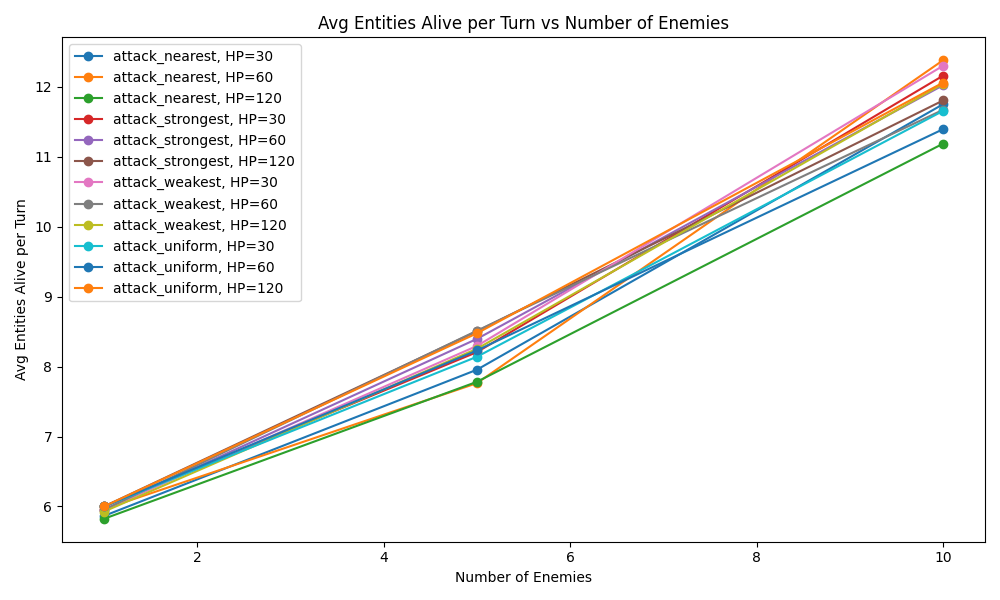
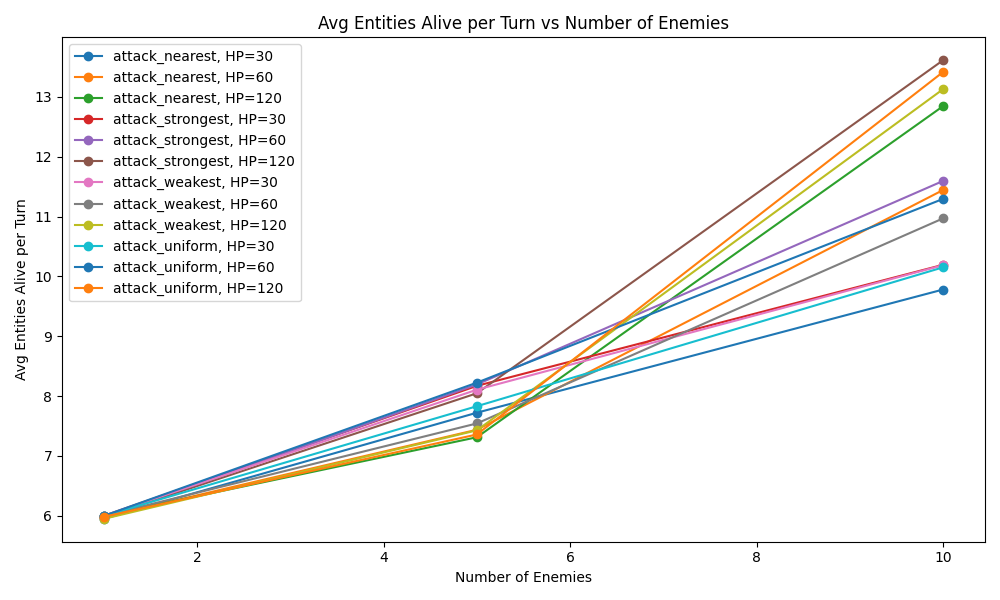
fixed enemy health

diff --git a/model.py b/model.py
@@ -221,14 +221,14 @@ def experiment_varying_enemies_and_health(
                 })
     # Plotting
     for metric in [
-    # "Total Damage Dealt by Players",
-    # "Total Damage Dealt by Enemies",
-    "Rounds Taken"#,
-    # "Avg Attacks per Turn",
-    # "Avg Entities Alive per Turn",
-    # "Players Survived",
-    # "Enemies Survived",
-    # "Player Win %"
+    "Total Damage Dealt by Players",
+    "Total Damage Dealt by Enemies",
+    "Rounds Taken",
+    "Avg Attacks per Turn",
+    "Avg Entities Alive per Turn",
+    "Players Survived",
+    "Enemies Survived",
+    "Player Win %"
     ]:
         plt.figure(figsize=(10, 6))
         for strategy in enemy_strategies:
@@ -242,22 +242,35 @@ def experiment_varying_enemies_and_health(
         plt.legend()
         plt.tight_layout()
         plt.savefig(f"{metric.replace(' ', '_')}_vs_num_enemies.png")
-        plt.close()
         # plt.show()
+        plt.close()
 
 if __name__ == "__main__":
+    # Uncomment to run the live demo
     # model = Model()
+    # model.NUM_ENEMIES = 10
+    # model.enemy_max_health = 30
     # show(model)
-    # print(f"Battle Length: {model.battle_length}")
-    # print(f"Total Damage Dealt By Players: {model.player_damage_dealt}")
-    # print(f"Total Damage Received By Players: {model.player_damage_received}")
-    # print(f"Player Survival Count: {model.player_survival_count}")
-    # print(f"Enemy Survival Count: {model.enemy_survival_count}")
     # metrics = model.compute_metrics()
-    # print("  Tension   : {:.2f} (avg. living agents per turn)".format(float(metrics['Tension'])))
-    # print("  Fairness  : {:.2f} (1=all players survive, 0=all enemies survive)".format(float(metrics['Fairness'])))
-    # print("  Engagement: {:.2f} (avg. attacks per turn)".format(float(metrics['Engagement'])))
+    # for key, value in metrics.items():  # Changed from metrics to metrics.items()
+    #     if isinstance(value, float):
+    #         print(f"{key}: {value:.2f}")
+    #     else:
+    #         print(f"{key}: {value}")
 
+    # model = Model()
+    # model.NUM_ENEMIES = 5
+    # model.enemy_max_health = 120
+    # show(model)
+    # metrics = model.compute_metrics()
+    # for key, value in metrics.items():  # Changed from metrics to metrics.items()
+    #     if isinstance(value, float):
+    #         print(f"{key}: {value:.2f}")
+    #     else:
+    #         print(f"{key}: {value}")
+
+    # Uncomment to run a batch simulation
     # batch_simulation(num_runs=5, num_players=5, num_enemies=10)
 
+    # Uncomment to run the experiment with varying enemies and health
     experiment_varying_enemies_and_health()

diff --git a/enemy.py b/enemy.py
@@ -9,7 +9,7 @@ class Enemy(object):
         self.strat = strategy
 
         # Enemy stats
-        self.health = np.random.randint(30,60) # Random health between 30 and 60
+        self.health = np.random.randint(max(1, max_health - 30), max_health) # Random health between 30 and 60
         self.armor_class = 10 # Number that must be rolled on attack to hit
         self.strength = 4 # Damage bonus for attacks
         self.damage_die = 8 # Damage die for attacks (d8)
